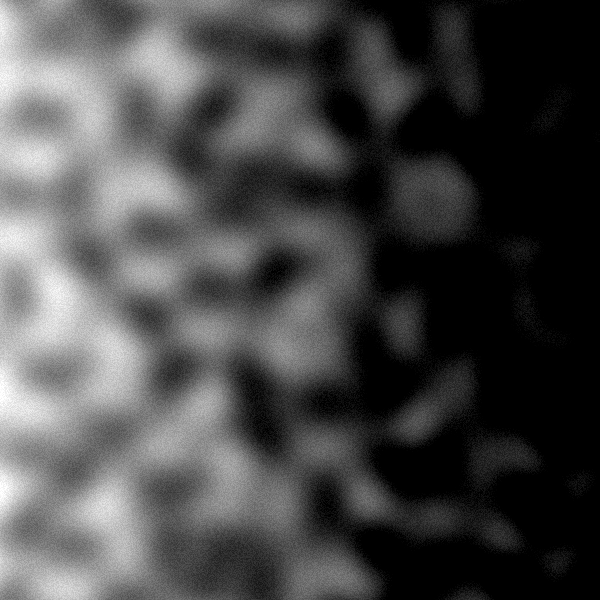
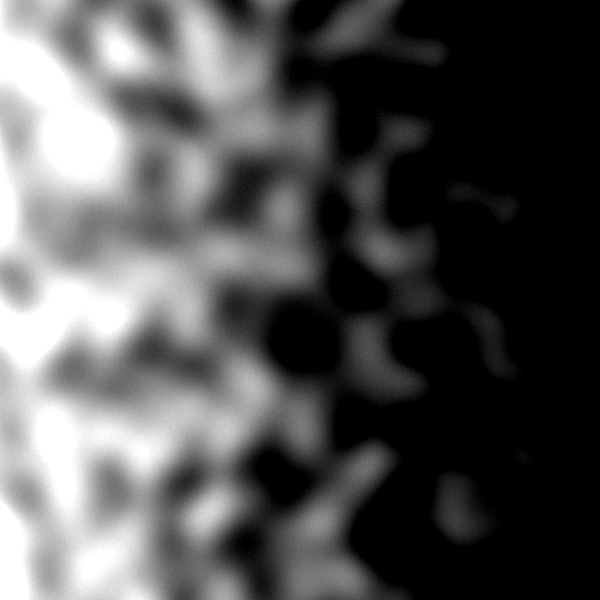
better settings

diff --git a/tests/browser/city/erosion.js b/tests/browser/city/erosion.js
@@ -25,9 +25,9 @@ var RAND_SCALE = 4;
 
 var erosion = new Erosion({
     size: canvas.width,
-    randPow: 1.5,
-    defaultHydration: 2,
-    evaporation: 0.333,
+    randPow: 2,
+    defaultHydration: 6,
+    evaporation: 0.6,
     sedInWater: 0.0125,
     sedimentErosion: 0.02,
     fastDrop: false,
@@ -51,7 +51,7 @@ document.getElementById('imgDiv2').appendChild(image);
 render(document.getElementById('terrainCanvas2'));
 
 var cycles = 0;
-var CYCLES = 5          ;
+var CYCLES = 8          ;
 var MAX = 30;
 function loop() {
     erosion.cycle(CYCLES);
